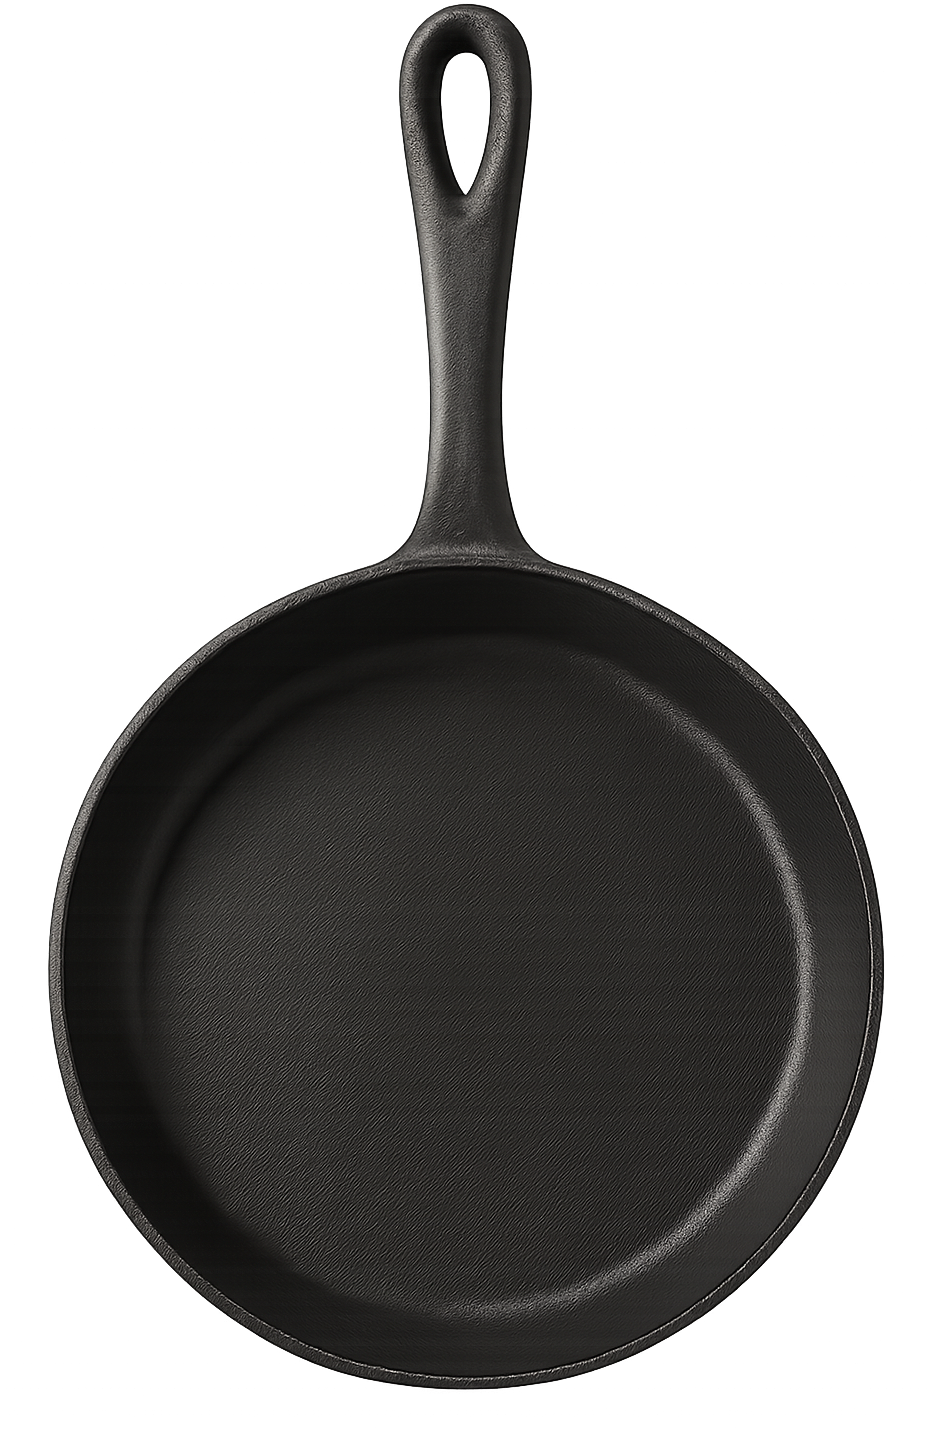
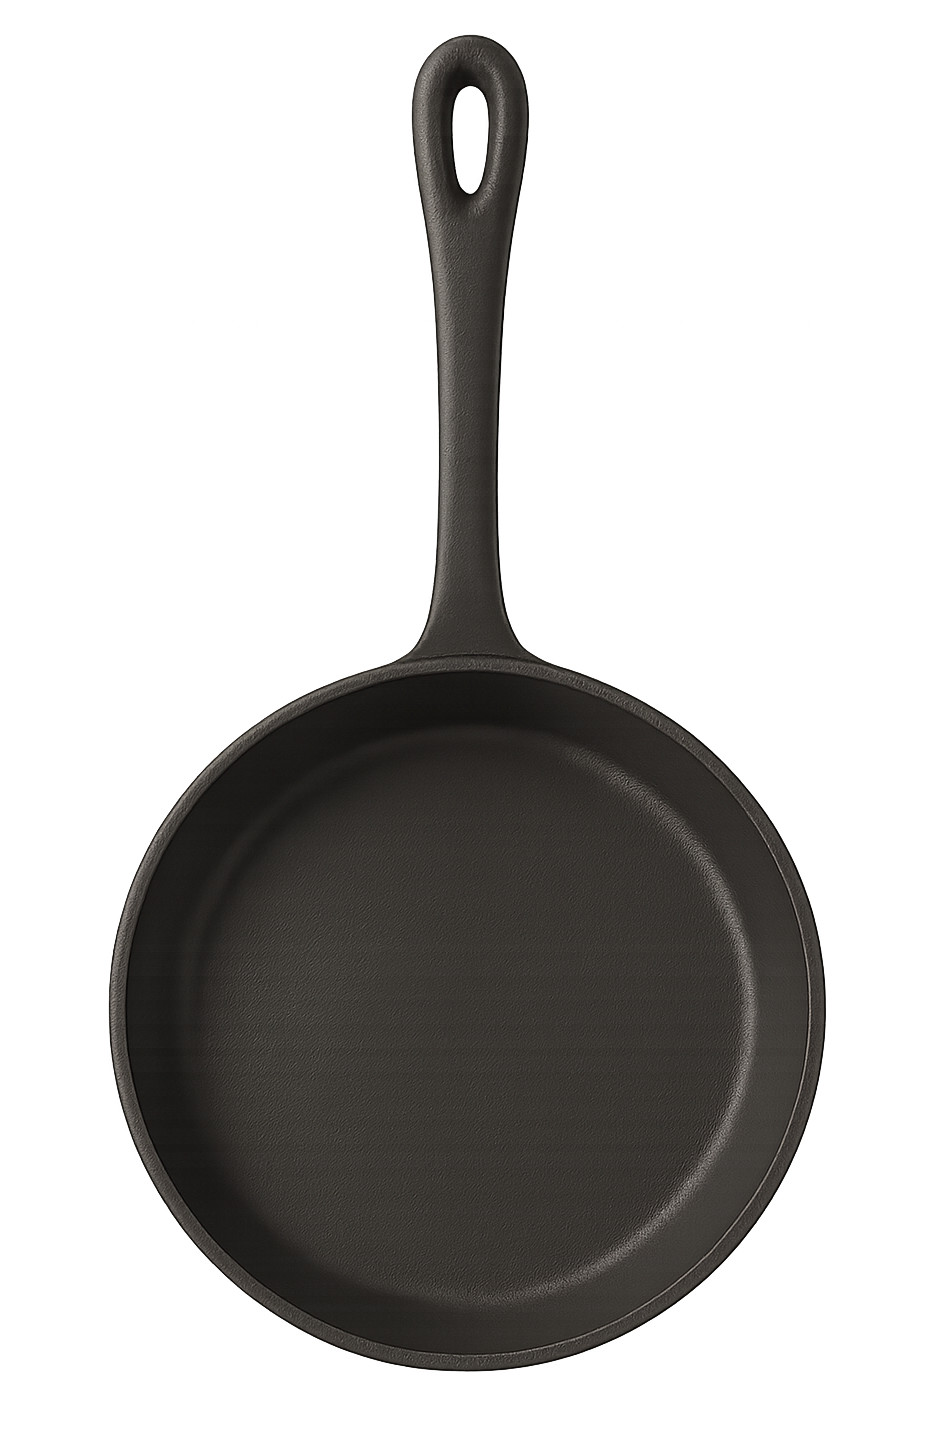
replace image and fix swiper buttons

Changed region(s): [[0.0311, 0.0, 0.9646, 0.9839]]

diff --git a/docs/styles.css b/docs/styles.css
@@ -360,7 +360,7 @@ img {
   justify-content: center;
   align-items: center;
   position: absolute;
-  top: calc(50% - 40px);
+  top: 0;
   width: 44px;
   height: 44px;
   padding: 12px;
@@ -405,8 +405,8 @@ img {
 }
 
 .swiper-btn--wrapper {
-  @medai screen and (max-width: 768px) {
-    display: none;
+  @media screen and (max-width: 768px) {
+    display: none !important;
   }
 }
 
